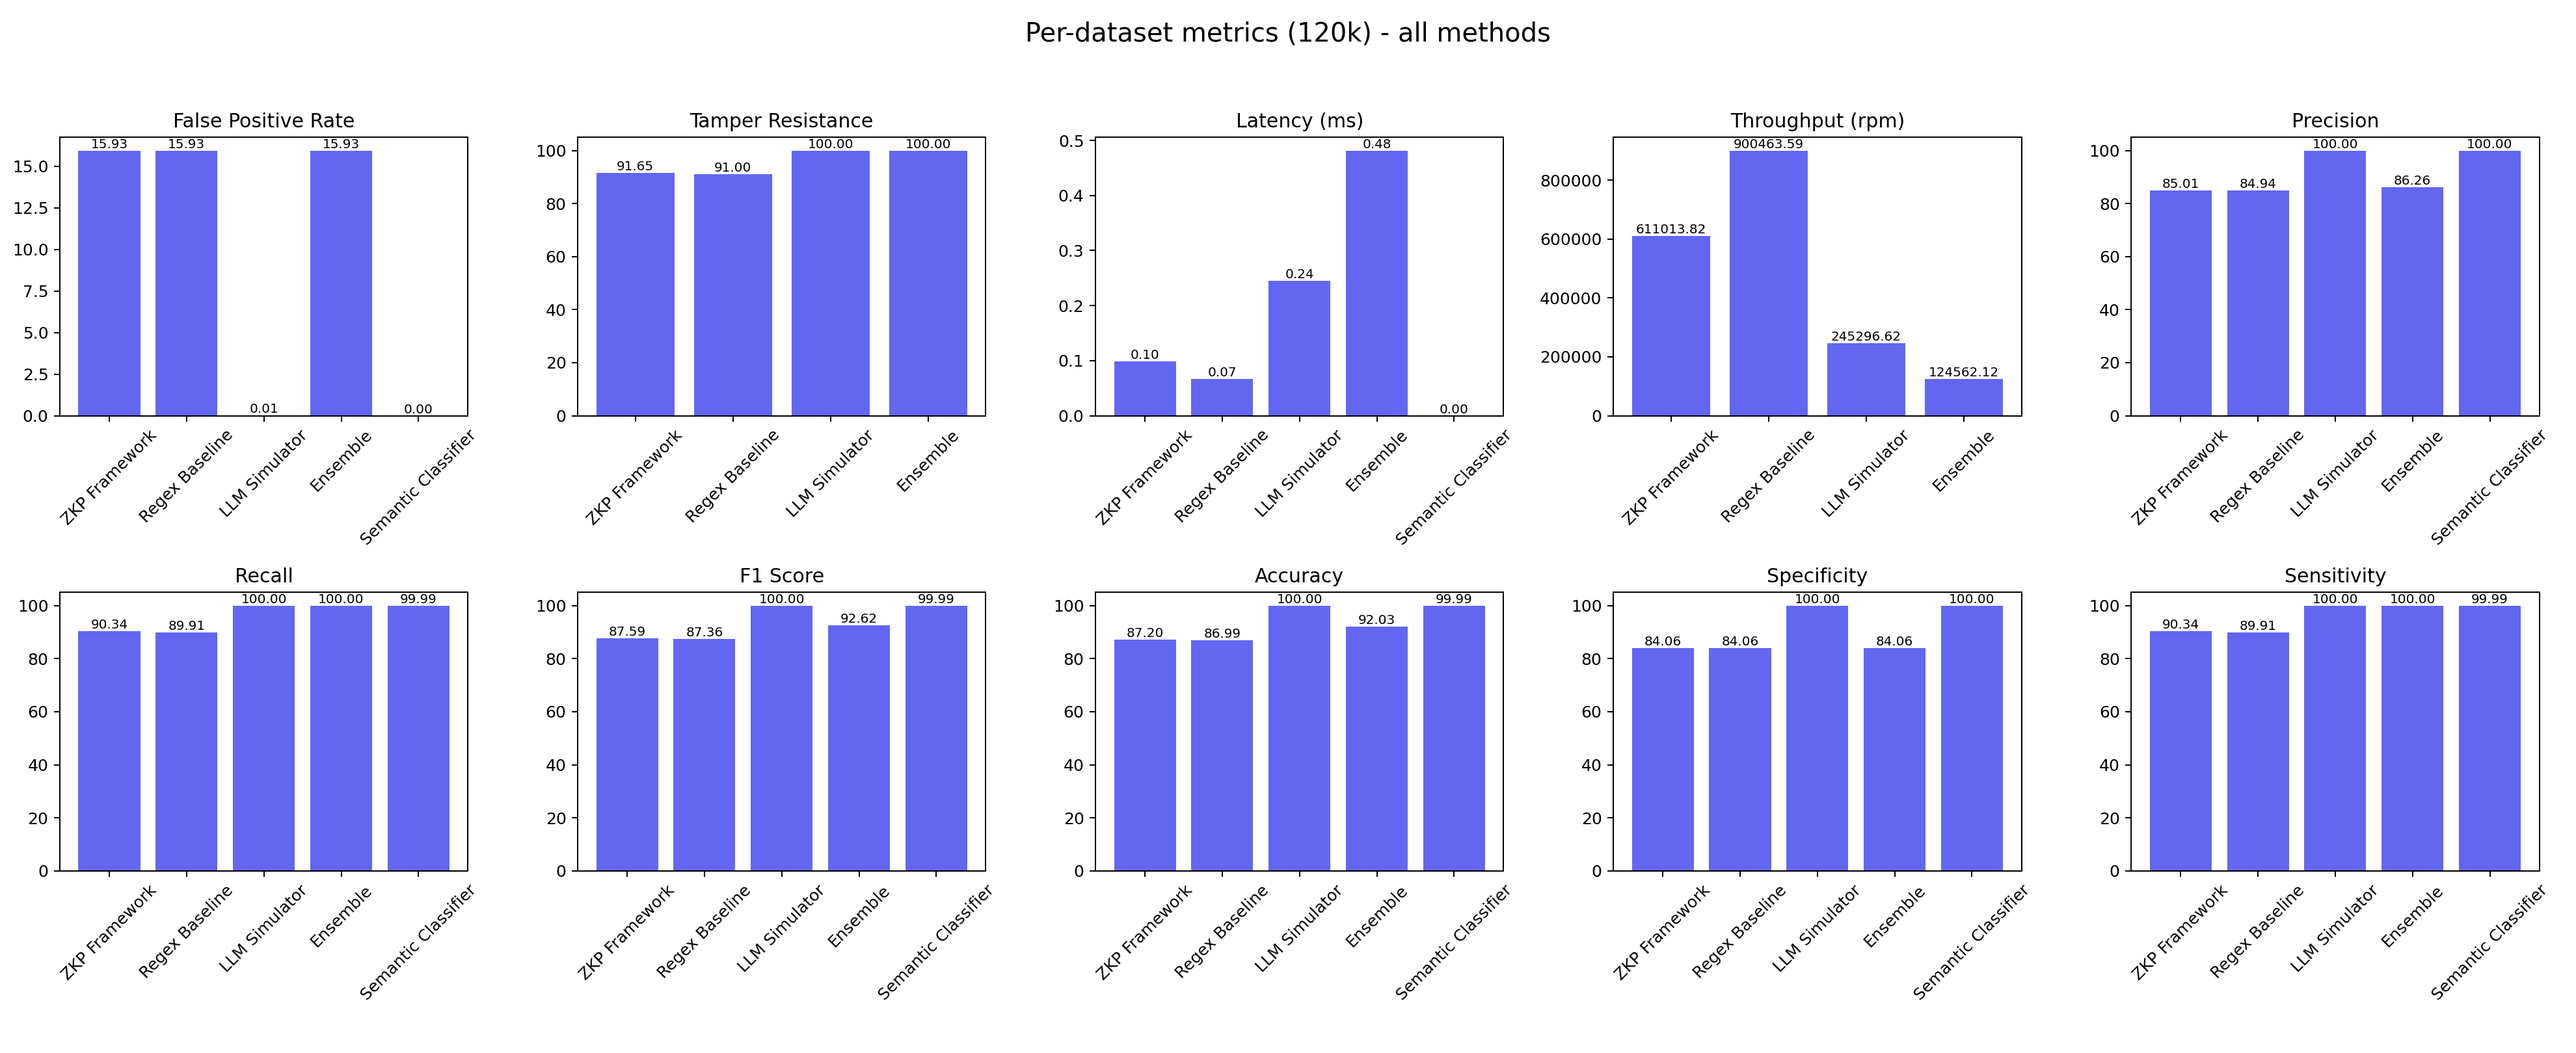
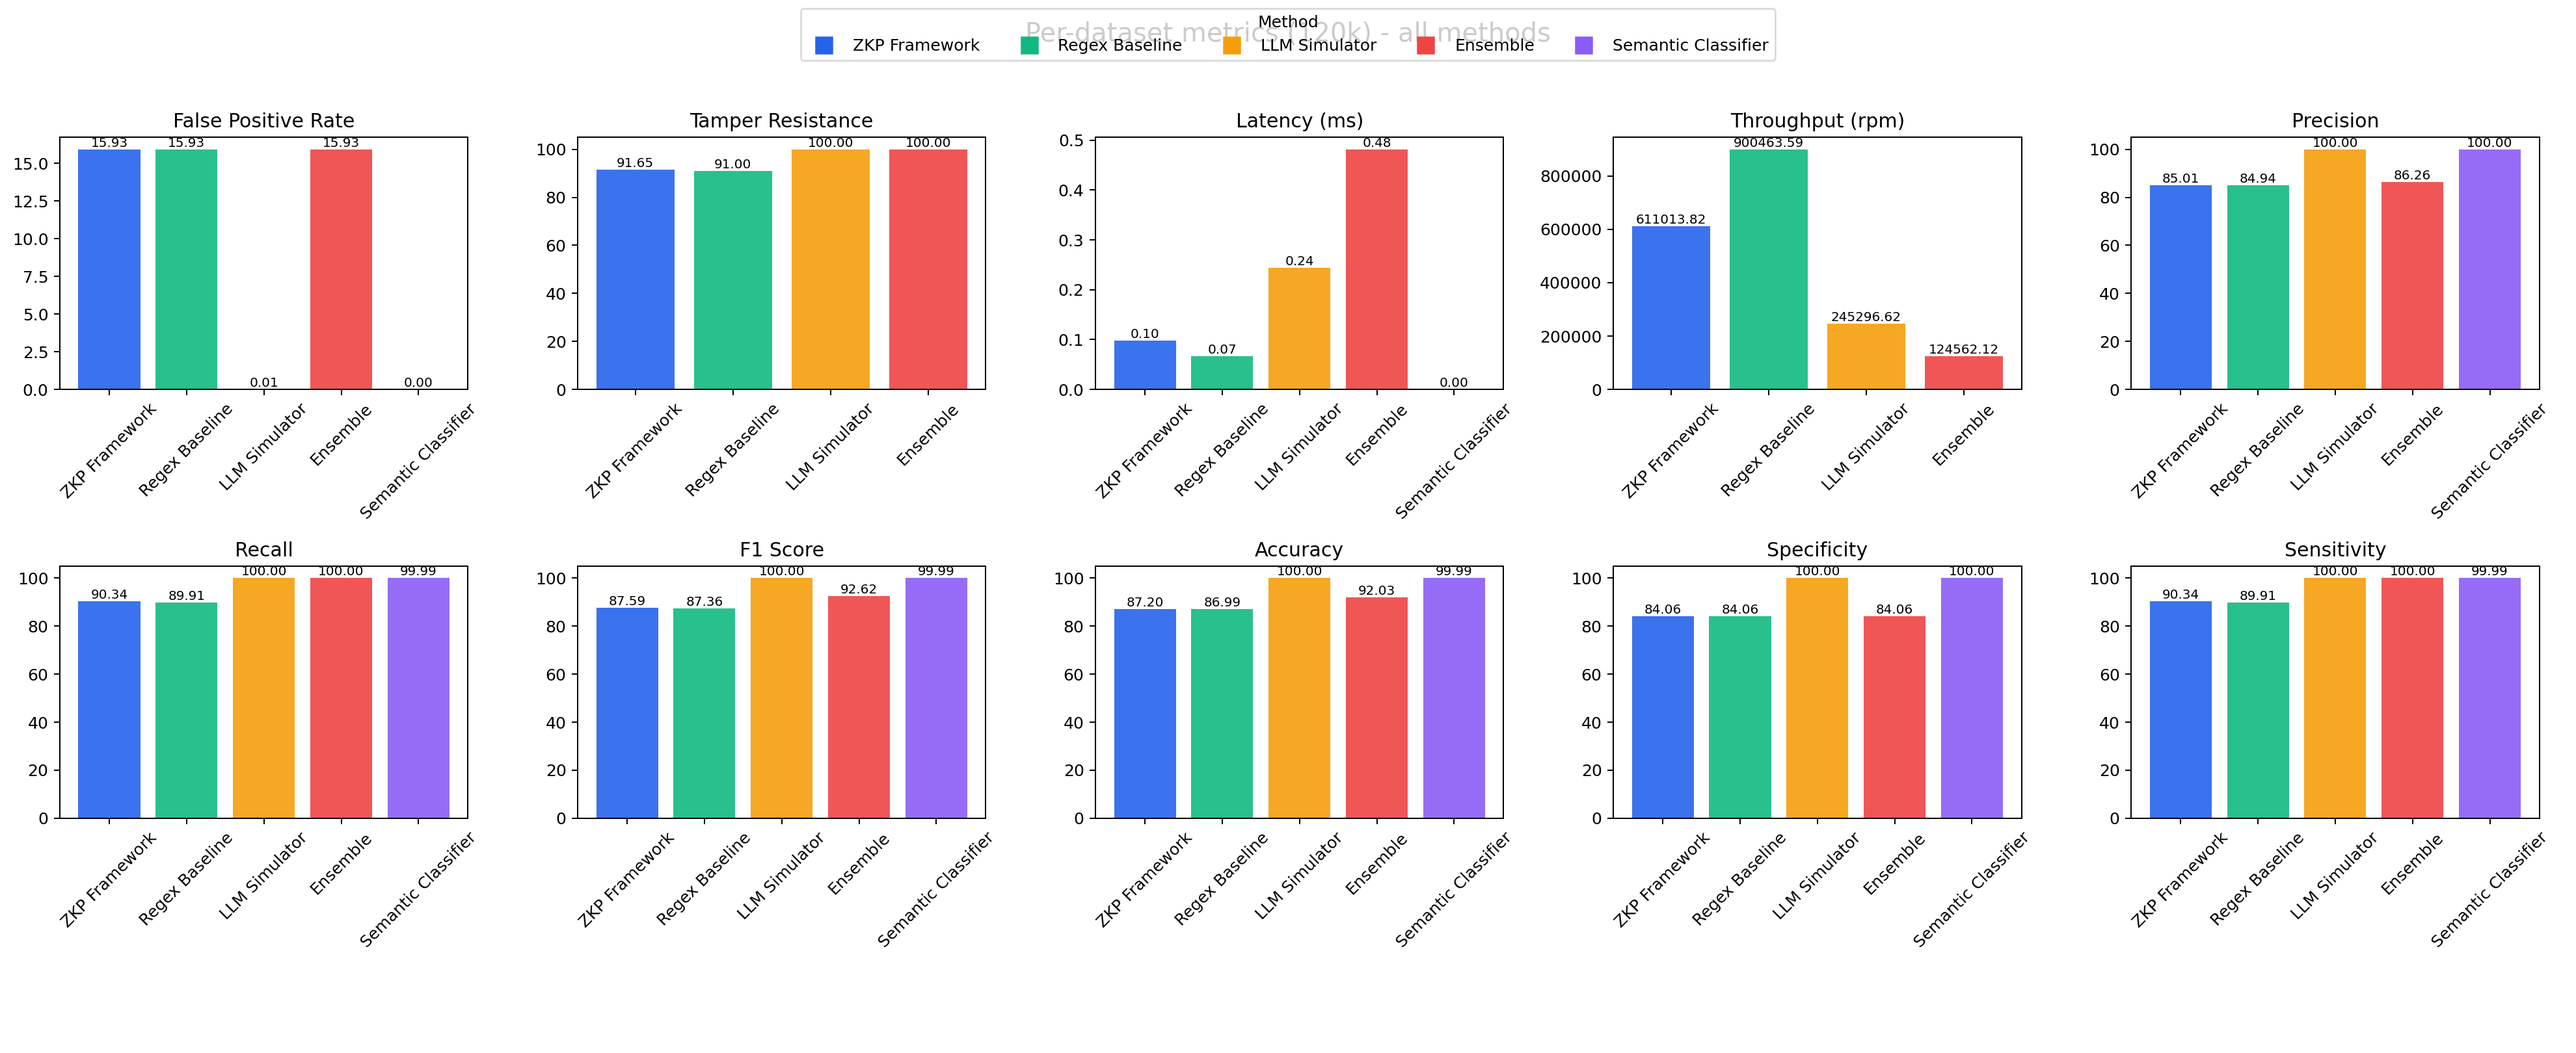
Per-dataset dashboards: distinct colors + shared legend in one figure

diff --git a/tools/aggregate_across_datasets.py b/tools/aggregate_across_datasets.py
@@ -155,21 +155,28 @@ def main(out_dir: str = "results_cross_dataset") -> None:
         fig, axes = plt.subplots(2, 5, figsize=(22, 9))
         fig.suptitle(f'Per-dataset metrics ({label}) - all methods', fontsize=16)
         methods = df.index.tolist()
+        palette = ['#2563EB', '#10B981', '#F59E0B', '#EF4444', '#8B5CF6', '#14B8A6', '#F97316']
+        color_map = {m: palette[i % len(palette)] for i, m in enumerate(methods)}
         for idx, (mk, mlabel, scale, is_pct) in enumerate(METRICS):
             r = idx // 5
             c = idx % 5
             ax = axes[r][c]
             vals = []
+            colors = []
             for m in methods:
                 val = float(df.loc[m][mk]) if mk in df.columns else float('nan')
                 vals.append(val * scale if pd.notna(val) else float('nan'))
-            ax.bar(methods, vals, color='#6366F1')
+                colors.append(color_map[m])
+            ax.bar(methods, vals, color=colors, alpha=0.9)
             ax.set_title(mlabel)
             ax.tick_params(axis='x', rotation=45)
             for i, v in enumerate(vals):
                 if pd.notna(v):
                     ax.text(i, v, f"{v:.2f}", ha='center', va='bottom', fontsize=8)
-        plt.tight_layout(rect=[0, 0.03, 1, 0.95])
+        # Shared legend for the whole figure
+        handles = [plt.Line2D([0], [0], marker='s', color=color_map[m], markersize=10, linewidth=0) for m in methods]
+        fig.legend(handles, methods, title='Method', loc='upper center', ncol=min(5, len(methods)))
+        plt.tight_layout(rect=[0, 0.08, 1, 0.95])
         outp = os.path.join(out_dir, f"per_dataset_{label}_all_methods_dashboard.png")
         plt.savefig(outp, dpi=180)
         plt.close(fig)
